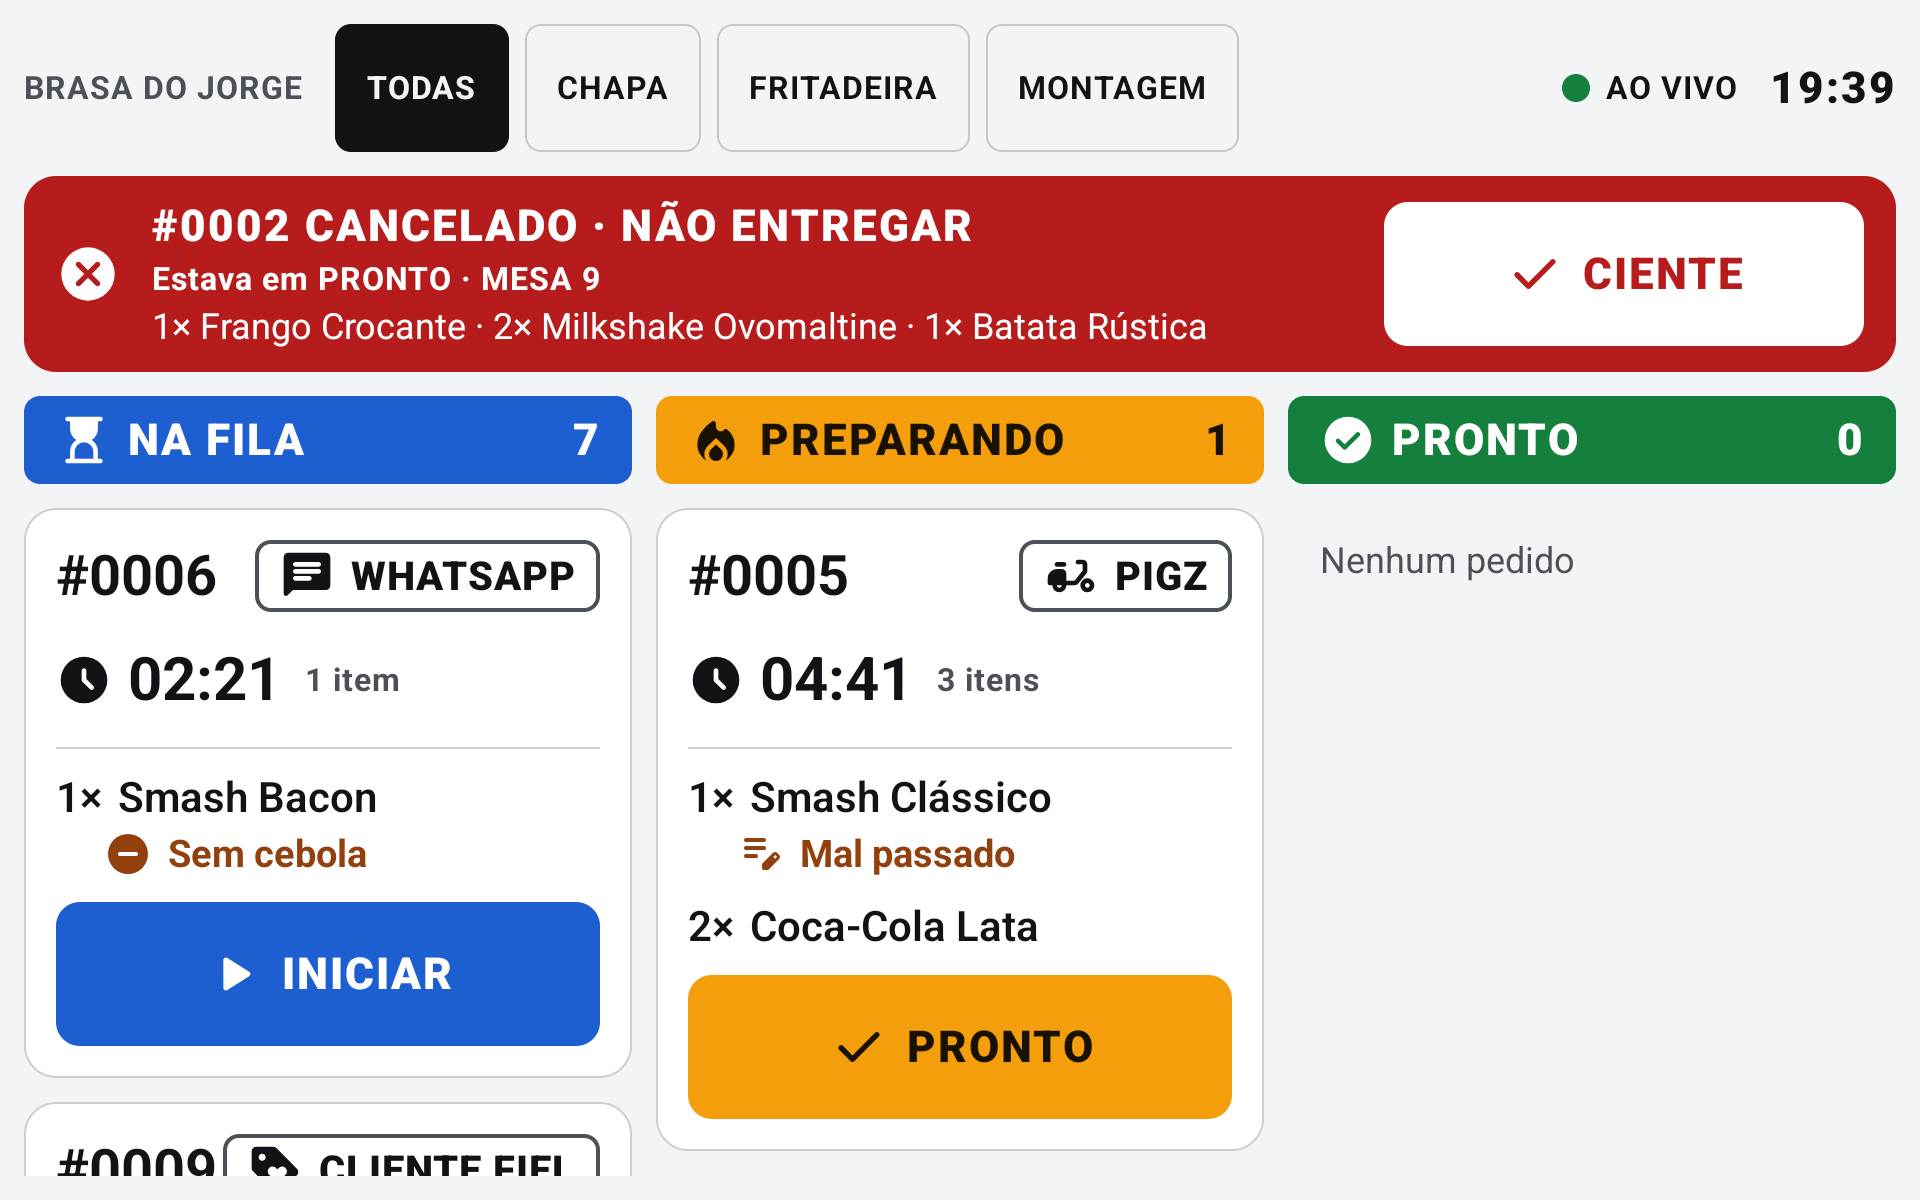
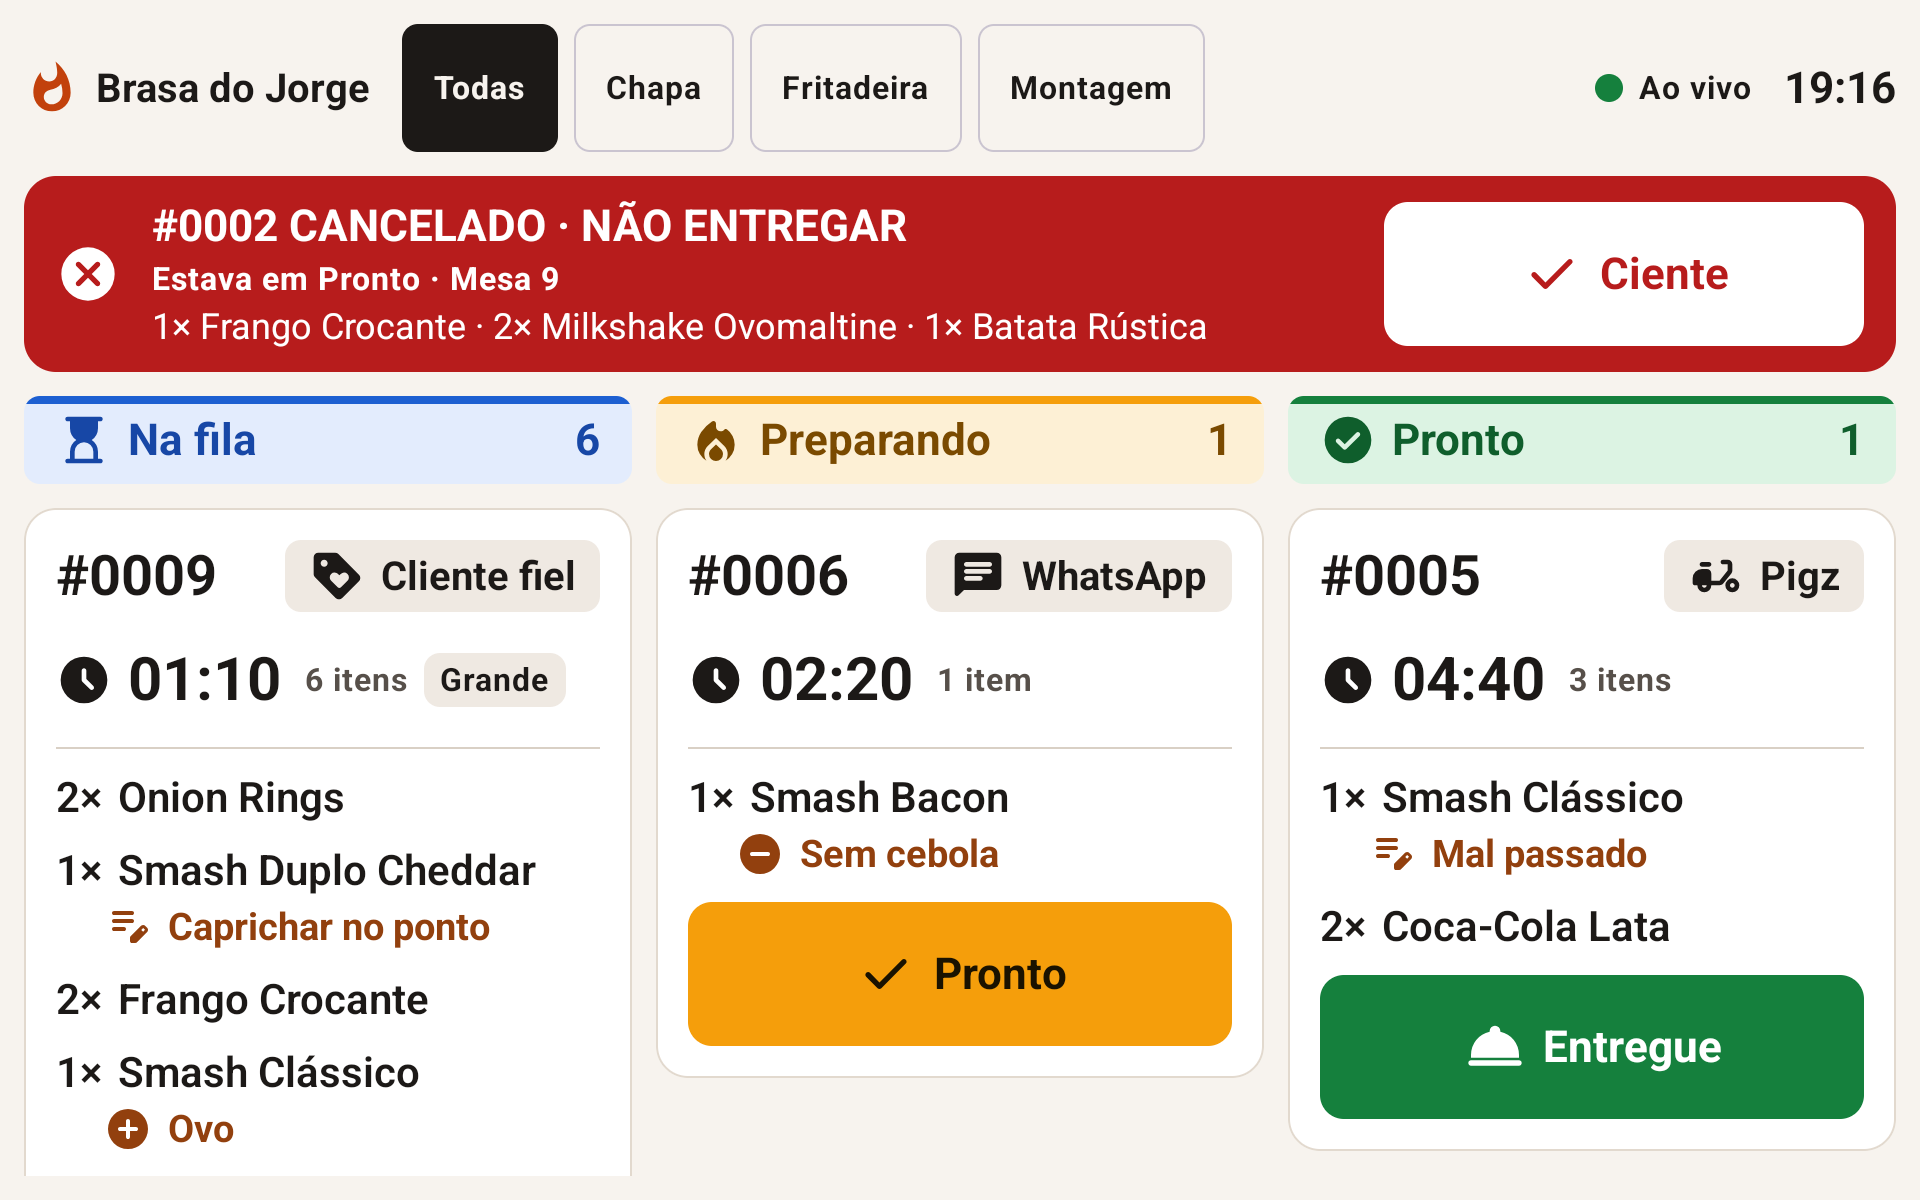
docs(readme): refaz prints e GIF no visual novo, com o tema claro
- GIF e prints do tablet, do celular e da TV no visual refinado, com
  o tema claro como padrão e o escuro como alternativa
- nova grade de telas: board claro e escuro lado a lado, alerta de
  cancelamento, painel na TV e Expedição no celular
- AI_USAGE registra a decisão pelo visual mais leve e pelo tema claro
  como cara do projeto

diff --git a/README.md b/README.md
@@ -16,20 +16,26 @@ Android nativo em Kotlin com Jetpack Compose. Um único APK assume o papel do ap
 
 <table>
   <tr>
-    <td><img src="docs/media/board-escuro.png" alt="Board no tablet, tema escuro: modificadores em destaque, origem do pedido, selo GRANDE e faixa vermelha no pedido atrasado"></td>
-    <td><img src="docs/media/board-claro-cancelamento.png" alt="Board no tablet, tema claro, com o alerta de um pedido pronto cancelado: NÃO ENTREGAR e o botão CIENTE"></td>
+    <td><img src="docs/media/board-claro.png" alt="Board no tablet, tema claro: a chama da marca, modificadores em destaque, origem do pedido, selo Grande e faixa vermelha no pedido atrasado"></td>
+    <td><img src="docs/media/board-escuro.png" alt="O mesmo board no tema escuro, com o fundo em grafite quente"></td>
   </tr>
   <tr>
-    <td align="center">Board no tablet, tema escuro</td>
-    <td align="center">Tema claro, com o alerta de cancelamento</td>
+    <td align="center">Board no tablet, tema claro (padrão do Android)</td>
+    <td align="center">O mesmo board no tema escuro</td>
   </tr>
   <tr>
-    <td><img src="docs/media/painel-tv.png" alt="Painel somente leitura na TV, com a fila, os pedidos atrasados e a barra superior com a conexão e a hora"></td>
-    <td align="center"><img src="docs/media/expedicao-celular.png" width="260" alt="Expedição no celular: pedidos prontos do mais antigo ao mais novo, COBRAR no pedido não pago e o botão ENTREGUE"></td>
+    <td><img src="docs/media/board-claro-cancelamento.png" alt="Alerta de um pedido pronto cancelado: CANCELADO, NÃO ENTREGAR e o botão Ciente"></td>
+    <td><img src="docs/media/painel-tv.png" alt="Painel somente leitura na TV, com a fila, pedidos em atenção com faixa âmbar e a barra superior com a conexão e a hora"></td>
   </tr>
   <tr>
+    <td align="center">Alerta de pedido pronto cancelado</td>
     <td align="center">Painel na TV, somente leitura</td>
-    <td align="center">Expedição no celular do garçom</td>
+  </tr>
+  <tr>
+    <td colspan="2" align="center"><img src="docs/media/expedicao-celular.png" width="300" alt="Expedição no celular: pedidos prontos do mais antigo ao mais novo, COBRAR no pedido não pago e o botão Entregue"></td>
+  </tr>
+  <tr>
+    <td colspan="2" align="center">Expedição no celular do garçom</td>
   </tr>
 </table>
 

diff --git a/docs/AI_USAGE.md b/docs/AI_USAGE.md
@@ -60,4 +60,5 @@ O desafio pede para contar como a IA foi usada: onde ajudou, onde errou e foi co
 - **Medir o release**, e não só o debug, o que corrigiu a conclusão sobre o pico.
 - **Tema claro.** Olhando o app como usuário, achei estranho ser todo escuro. A IA defendeu o escuro como padrão de cozinha e propôs oferecer os dois temas seguindo o Android; aprovei a direção depois de ver o card no tema claro, antes de qualquer código.
 - **Polimento visual sem Figma.** Perguntei se valia montar um Figma; a IA recomendou polir direto no Compose, cada item ligado a uma dor da cozinha e com teste (itens agrupados, faixa de atraso, barra superior, animação). Escolhi esse pacote.
+- **Visual mais leve e claro por padrão.** Ainda achei o app duro. A IA propôs tirar a caixa alta de tudo que não é alerta, suavizar os cabeçalhos das etapas e dar identidade à casa com a chama da marca e tons quentes. Minha esposa e meu chapter olharam e acharam o fundo escuro pesado; a IA ainda defendia o escuro como comum em cozinha, mas a opinião de quem viu o app pela primeira vez decidiu: o tema claro virou a cara do projeto, e a TV passou a seguir o Android como os outros aparelhos.
 - **Forma de trabalhar:** passos pequenos, mensagem de commit revisada antes, Conventional Commits formais em português, PR com merge commit para preservar o histórico.
